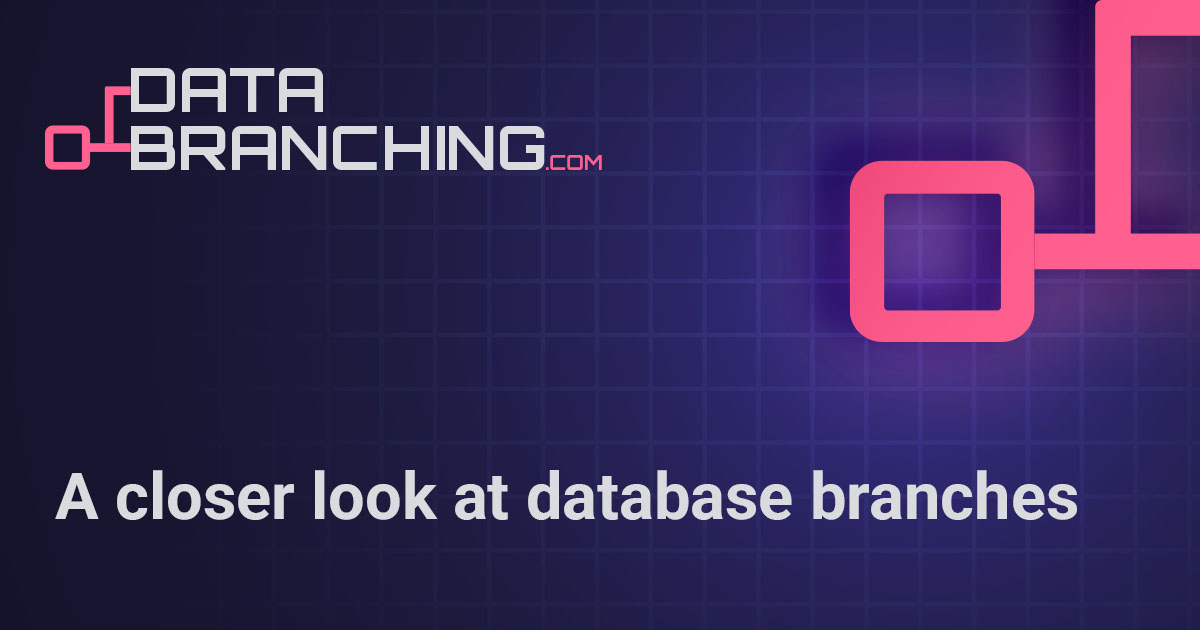
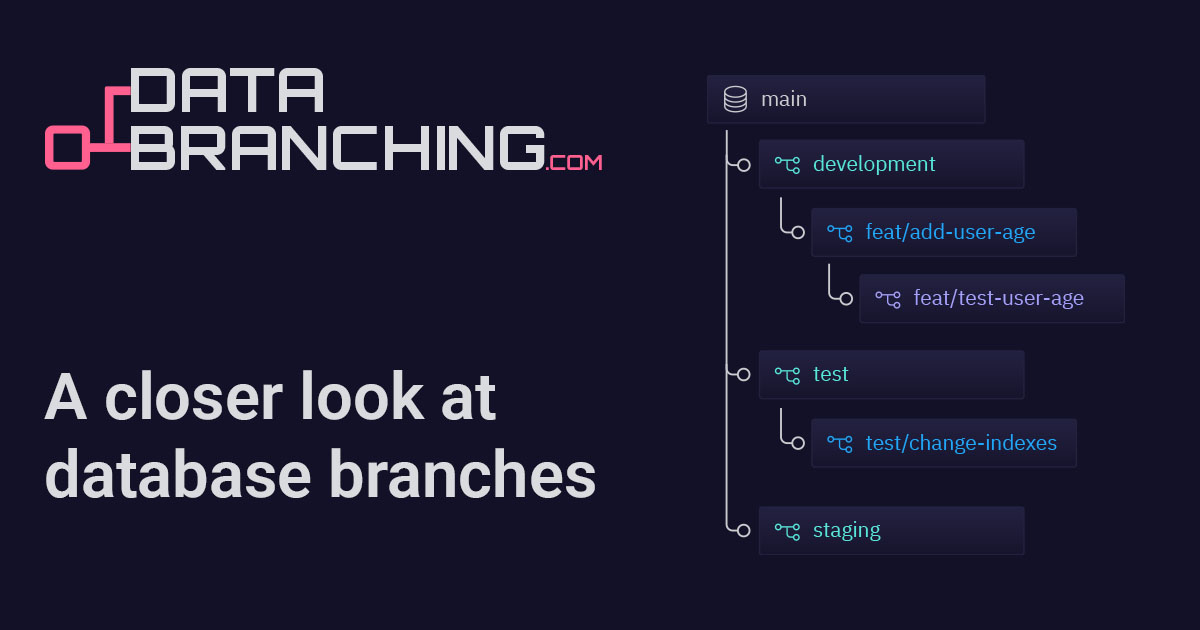
chore: update og images and README

diff --git a/README.md b/README.md
@@ -1,1 +1,13 @@
+<p align="center">
+  <a href="https://databranching.com/">
+    <img alt="paulie.dev" src="https://www.databranching.com/images/databranching-open-graph.jpg" />
+  </a>
+</p>
+
+<br />
+
 # Data Branching
+
+A closer look at database branching.
+
+- [databranching.com](https://wwww.databranching.com)
